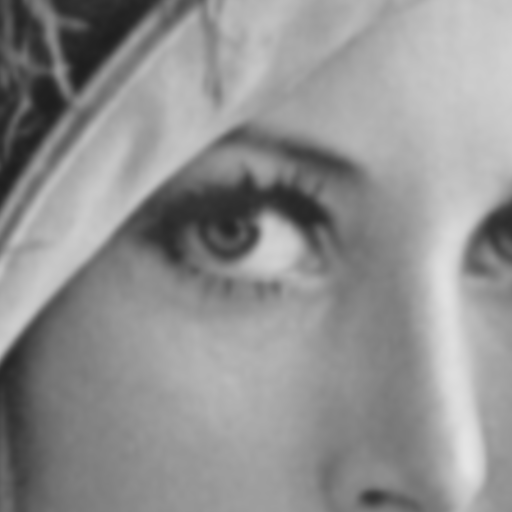
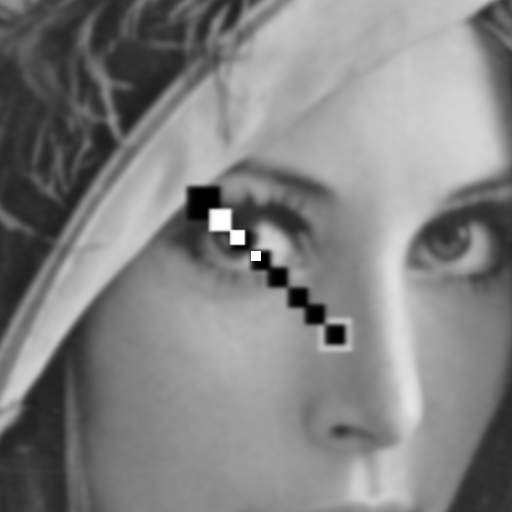
got the partitioning and step size right.  but there's this weird thing where the final destination moves out with increasing frame count. it might have to do with final coordinates having roundoff error with increasing N in the denonimator for delta.

diff --git a/cPlusPlus/digitalZoom.cc b/cPlusPlus/digitalZoom.cc
@@ -7,24 +7,8 @@
 
 using namespace std;
 
-
-
-void crop(ImageTemplate<double>* input, ImageTemplate<double>* output, int W, int H, int xn, int yn) {
-
-	output->Resize(W,H);
-
-	target(input, xn, yn, 9, 255.0);
-
-	for(int y=yn-H/2; y<yn+H/2; y++){
-
-		for(int x=xn-W/2; x<xn+W/2; x++){
-
-			output->Pixel(x-(xn-W/2),y-(yn-H/2)) = input->Pixel(x,y);
-		}
-	}
-
-}
-
+// argv inputs:
+//
 // 1         2              3                4            5                      6
 // input.png upsampleFactor downsampleFactor numberFrames destinationCoordinateX destinationCoordinateY
 
@@ -41,36 +25,53 @@ int main (int argc, char* argv[]){
 	double BW = 2.5;
 
 	// make images for each frame of movie
-	int N = atoi(argv[4]);
+	int N = atoi(argv[4])+1;
 	ImageTemplate<double> movie[N];	
 
-	double ratio = (double)U / (double)D;
-	double scale = pow(ratio, 1.0/(double)N);
-	// printf("ratio: %f\tscale: %f\n", ratio, scale);
+	double alpha = (double)U / (double)D;
+	// double scale = pow(alpha, 1.0/(double)N);
+	// printf("alpha: %f\tscale: %f\n", alpha, scale);
 	
 	ImageTemplate<double> interpolated;
 	ImageTemplate<double> decimated;
 
 	movie[0].LoadPng(argv[1]);
+	int W = movie[0].Width();
+	int H = movie[0].Height();
+
 	
 
 	// origin and destination coordinates
-	double xI = (double)movie[0].Width()/2.0;
-	double yI = (double)movie[0].Height()/2.0;
-	double xF = (double)atoi(argv[5]);
-	double yF = (double)atoi(argv[6]);
+	double xi = (double)W/2.0;
+	double yi = (double)H/2.0;
+	int alphaXi = (int)round(alpha*xi);
+	int alphaYi = (int)round(alpha*yi);
+
+	double xf = (double)atoi(argv[5]);
+	double yf = (double)atoi(argv[6]);
+	
+	double xDelta = (xf-xi)/(double)N;
+	double yDelta = (yf-yi)/(double)N;
 
 	// mark the center and the destination as a target
-	int B = 9;
-	target(&movie[0], xF, yF, B, 255.0);
-	target(&movie[0], movie[0].Width()/2, movie[0].Height()/2, B, 0.0);
+	int B = 5;
+	target(&movie[0], (int)round(xf-xDelta), (int)round(yf-yDelta), B, 200.0);
+	target(&movie[0], (int)round(xi), (int)round(yi), B, 0.0);
+
+	// mark the deltas on original
+	for (int n=1; n<N; n++){
+		target(&movie[0], (int)round(xi+n*xDelta), (int)round(yi+n*yDelta), 3, 0.0);
+	}
 
 	movie[0].SavePng("0.png");
 
+	cout << endl;
 	
-	// intermediate coordinates updated each iteration
-	double xn;
-	double yn;
+	// intermediate coordinates updated each itealphan
+	double xn = xDelta;
+	double yn = yDelta;
+	int xnInt;
+	int ynInt;
 
 	for(int n=1; n<N; n++){
 
@@ -80,15 +81,25 @@ int main (int argc, char* argv[]){
 		downsampleRBJ(&interpolated, &decimated, D, BW);
 		// printf("updnsize: %d x %d\n", decimated.Width(), decimated.Height());
 
-		xn = ratio * (xI + (1.0/(double)N) * ratio * (xF - xI)); 
- 		yn = ratio * (yI + (1.0/(double)N) * ratio * (yF - yI));
+		// need position of next center in terms of the blown-up image
+		xn = alphaXi + pow(alpha, n)*xDelta;
+		xnInt = (int)round(xn);
 
-		crop(&decimated, &movie[n], movie[0].Width(), movie[0].Height(), (int)round(xn), (int)round(yn));
+		yn = alphaYi + pow(alpha, n)*yDelta;
+		ynInt = (int)round(yn);
+
+		target(&decimated, xnInt, ynInt, 5, 255.0);
+
+		crop(&decimated, &movie[n], W, H, xnInt, ynInt);
 
 		cout << "saving movie[" << n << "]" << endl;
 		movie[n].SavePng(std::to_string(n)+".png");
 		
 	}
+
+	std::string command = "python /Users/justinsconza/Documents/ECE418/project418/cPlusPlus/generateAnimation.py " + std::to_string(N);
+	cout << endl << "calling: " << command << endl << endl;;	
+	system(command.c_str());
 
 	return 0;
 }

diff --git a/cPlusPlus/helpers.cc b/cPlusPlus/helpers.cc
@@ -34,6 +34,18 @@ void scale(ImageTemplate<double>* input) {
 
 }
 
+void crop(ImageTemplate<double>* input, ImageTemplate<double>* output, int W, int H, int xn, int yn) {
+
+	output->Resize(W,H);
+
+	for(int y=yn-H/2; y<yn+H/2; y++){
+		for(int x=xn-W/2; x<xn+W/2; x++){
+
+			output->Pixel(x-(xn-W/2),y-(yn-H/2)) = input->Pixel(x,y);
+		}
+	}
+
+}
 
 void interpolate(ImageTemplate<double>* input, ImageTemplate<double>* output, int U) {
 	

diff --git a/cPlusPlus/generateAnimation.py b/cPlusPlus/generateAnimation.py
@@ -1,3 +1,5 @@
+import sys
+
 import numpy as np
 from numpy import sin as sin
 from numpy import cos as cos
@@ -13,10 +15,10 @@ import matplotlib.image as img
 import imageio
 
 images = []
-for i in range(20):
+for i in range(int(sys.argv[1])):
     file_str = str(i) + '.png'
     images.append(imageio.imread(file_str))
 
-output_file = 'output_animation.gif'
+output_file = 'outputAnimation.gif'
 imageio.mimsave(output_file, images)
 

diff --git a/cPlusPlus/helpers.h b/cPlusPlus/helpers.h
@@ -9,6 +9,7 @@
 
 void target(ImageTemplate<double>* input, int x0, int y0, int B, float color);
 void scale(ImageTemplate<double>* input);
+void crop(ImageTemplate<double>* input, ImageTemplate<double>* output, int W, int H, int xn, int yn);
 void interpolate(ImageTemplate<double>* input, ImageTemplate<double>* output, int U);
 void downsampleRBJ(ImageTemplate<double>* input, ImageTemplate<double>* output, int D, float BW);
 
